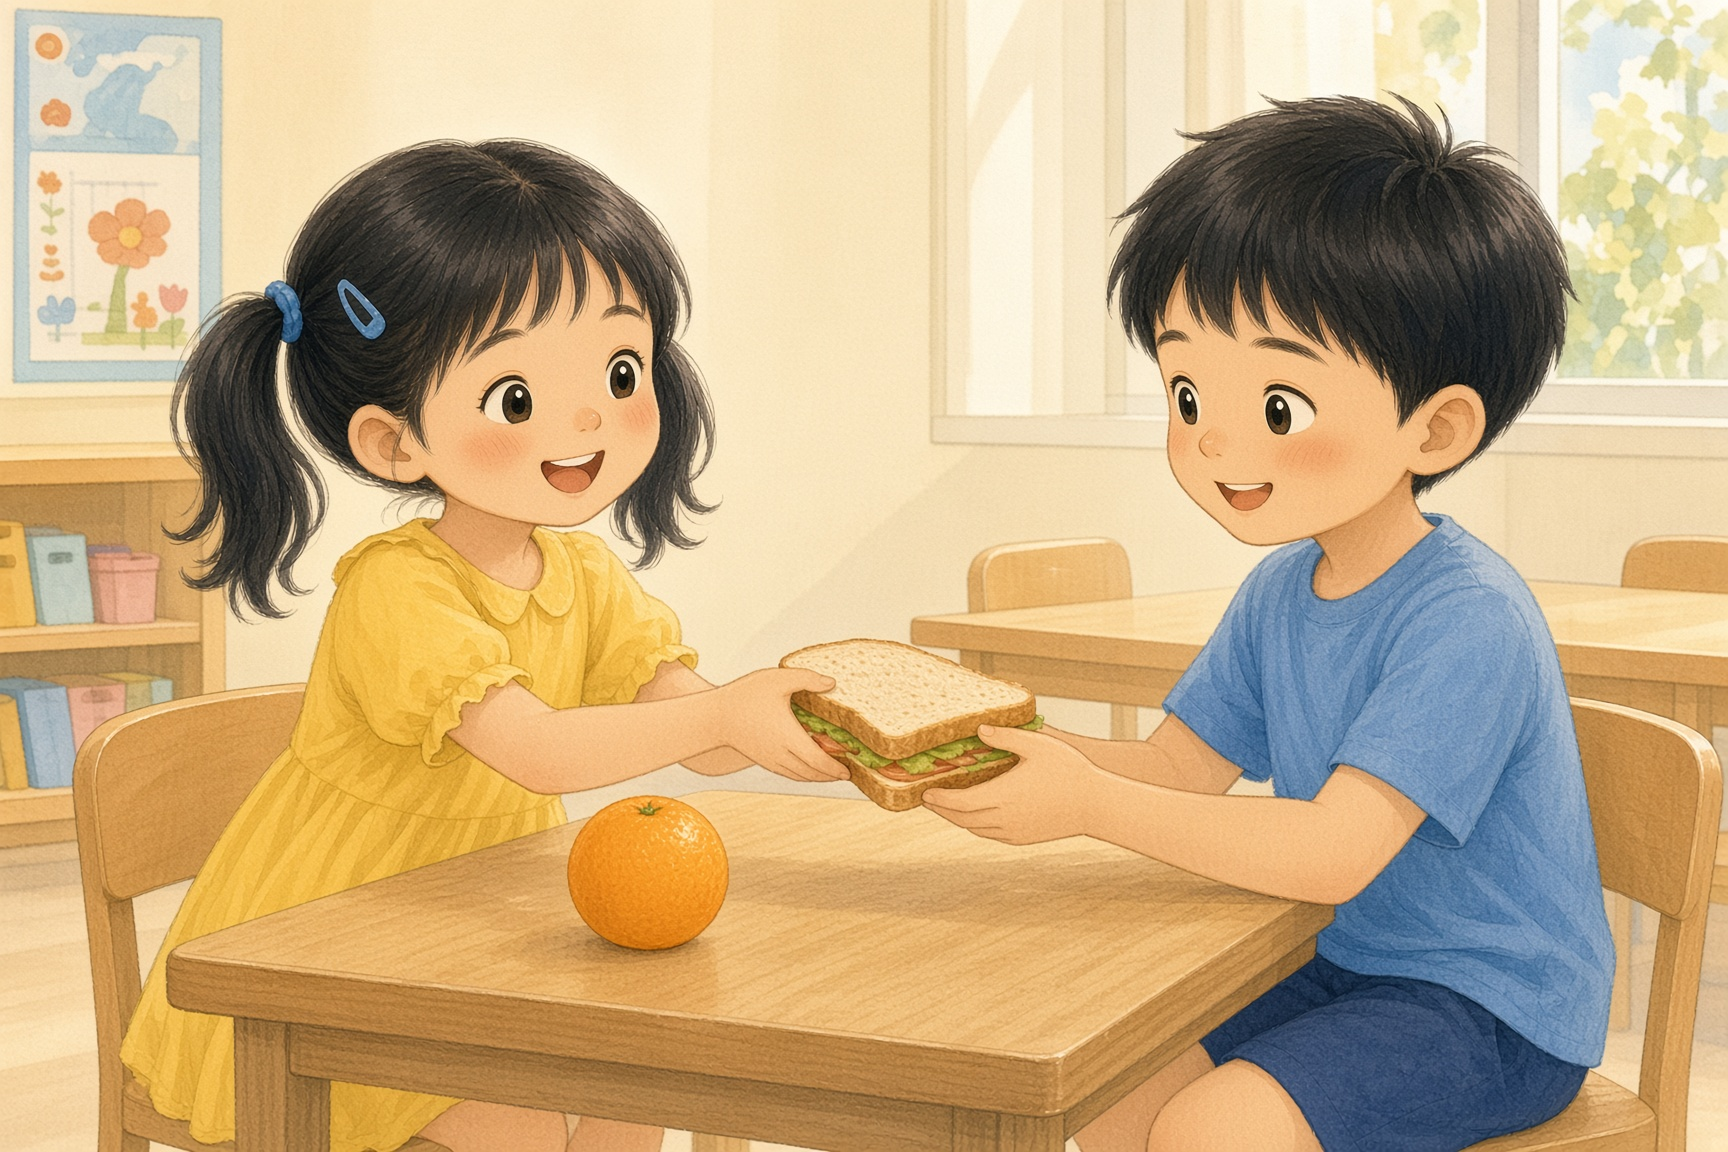
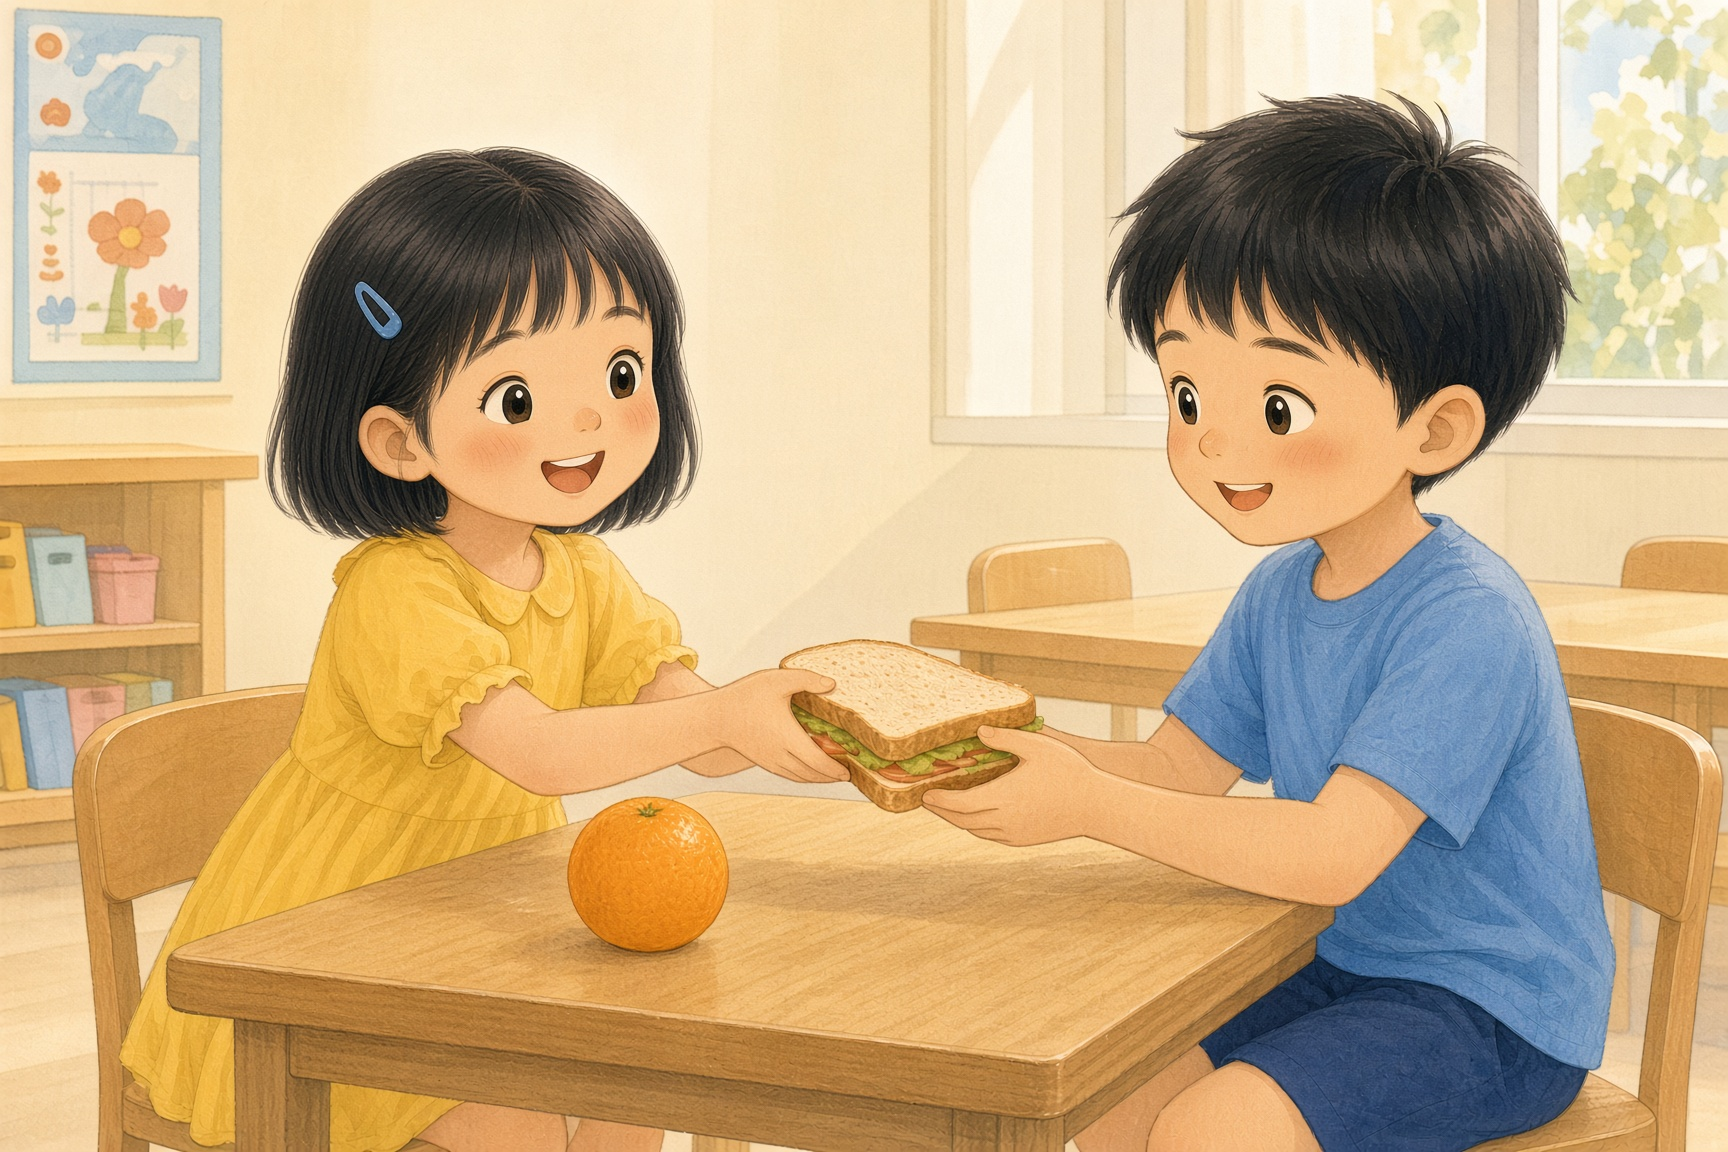
Match Anan's short hair and blue clip in lunch panel 3

diff --git a/stories.js b/stories.js
@@ -327,7 +327,7 @@ window.STORIES = [
       {
         caption: "安安把三文治分開，分給同學。",
         hint: "她怎樣幫助同學？",
-        image: "comics/lunch/3.jpg?v=3",
+        image: "comics/lunch/3.jpg?v=4",
       },
       {
         caption: "兩人一起吃飯，都笑了。",
